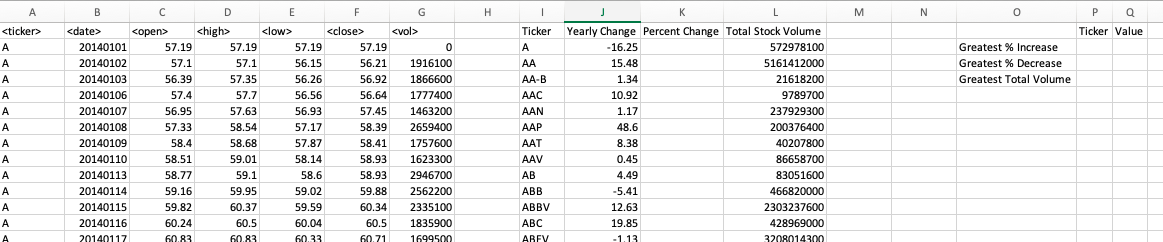
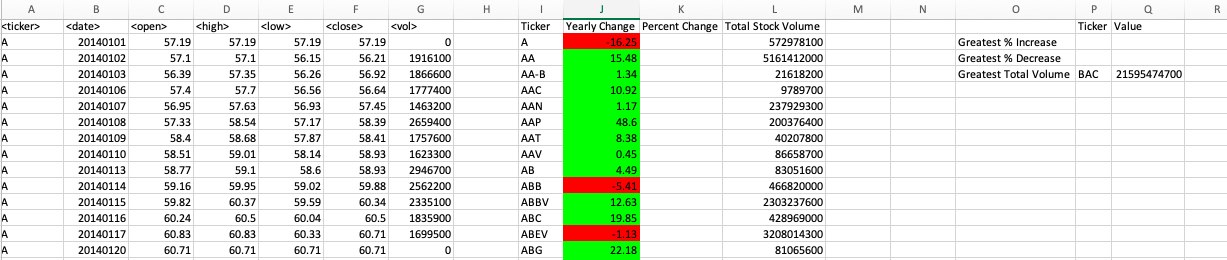
Updated vba script and images

diff --git a/README.md b/README.md
@@ -1,6 +1,8 @@
 # VBA-challenge
-VBA Homework - The VBA of Wall Street
+VBA Challenge - The VBA of Wall Street
 
-I will use VBA scripting to analyze real stock market data.
+In this challenge, VBA scripting is used to to analyze real stock market data.
+
+Significant factors in this challenge are the ability to loop through large sets of data present in multiple worksheets and produce analytical reports based on the data.  Conditional formatting is also used to highlight positive and negative change in the data.
 
 
